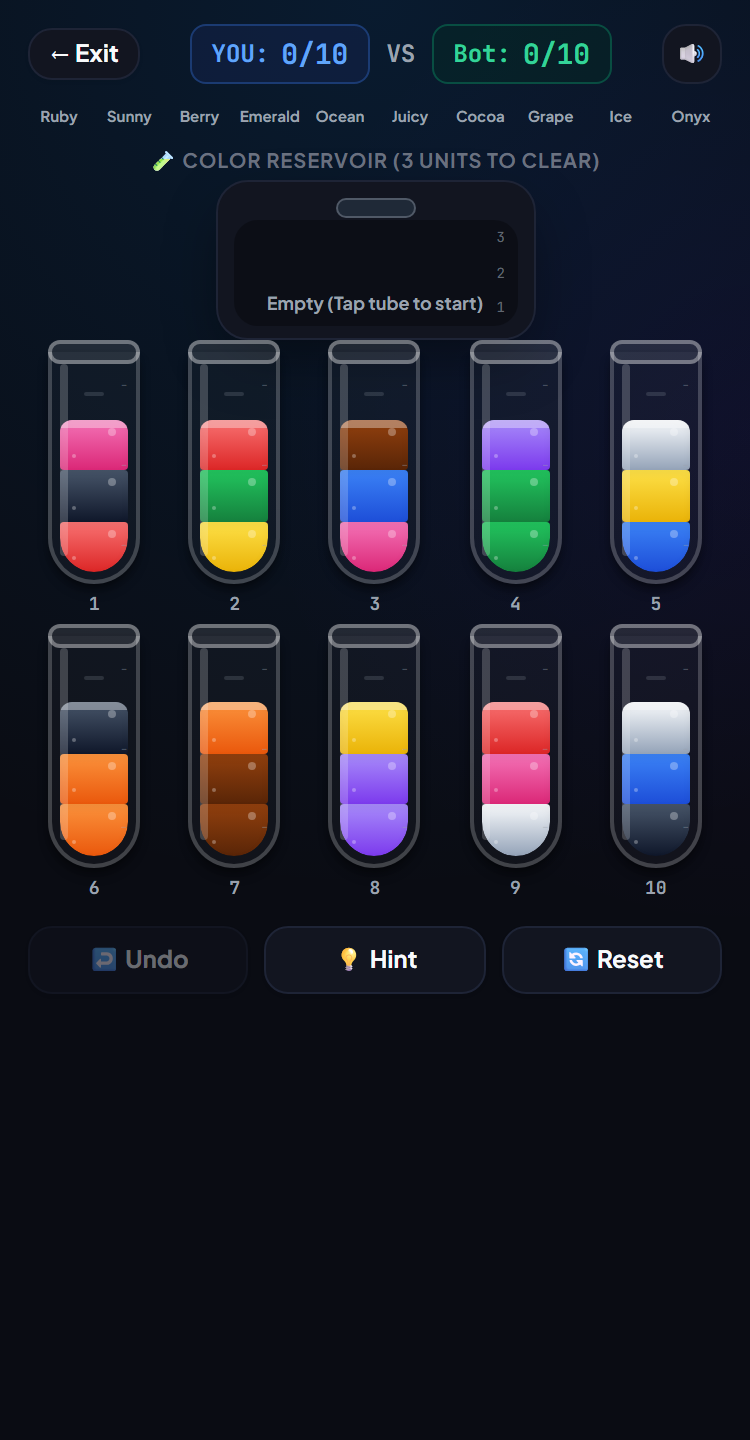
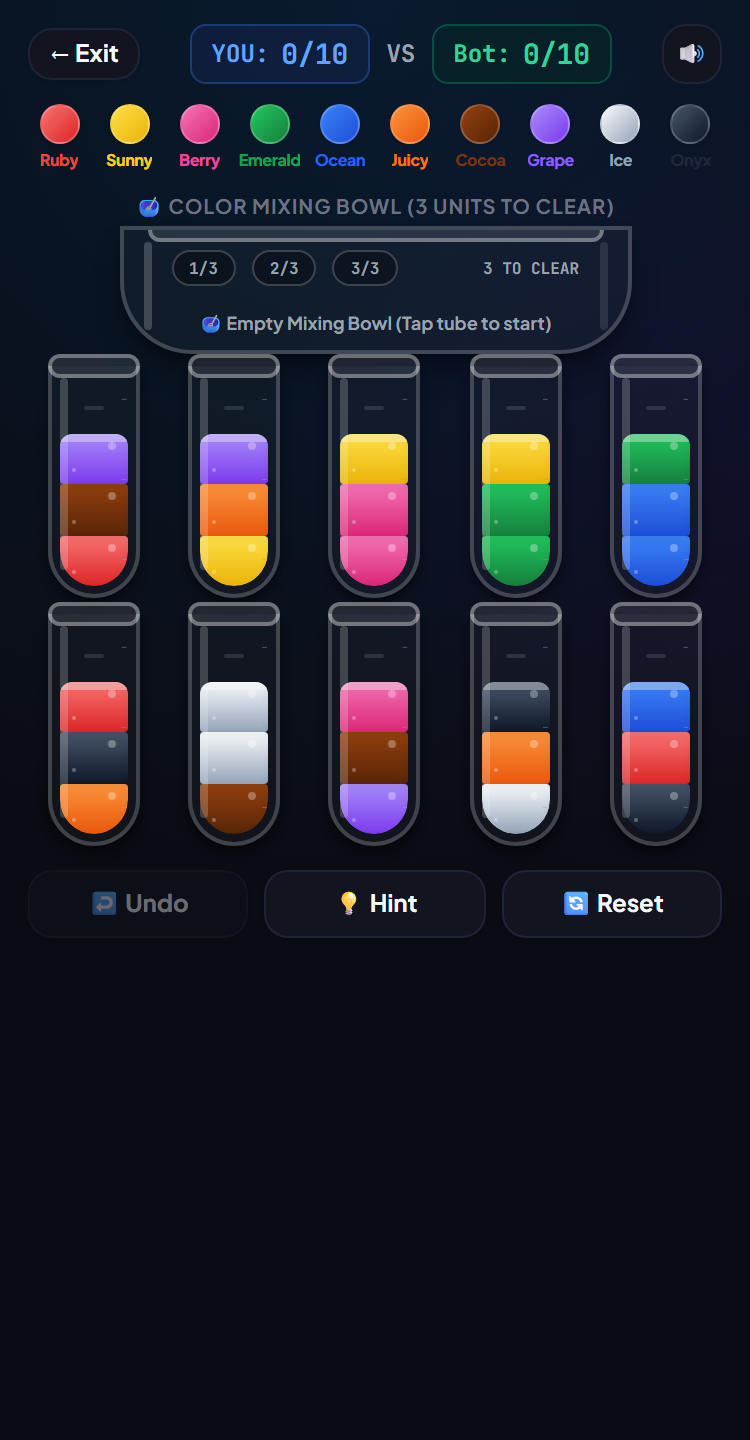
feat(water-sort): horizontal mixing bowl, colorful ribbon dots/text, remove tube numbers, and eliminate popup white lines

Changed region(s): [[0.0307, 0.0625, 0.9507, 0.6875], [0.8893, 0.0625, 0.9507, 0.0938]]

diff --git a/src/games/water-sort/WaterSortGame.ts b/src/games/water-sort/WaterSortGame.ts
@@ -208,10 +208,10 @@ export class WaterSortGame implements GameInstance {
           </div>
         </div>
 
-        <!-- Central Big Reservoir Flask (Single Color Extractor) -->
+        <!-- Central Big Mixing Bowl (Single Color Extractor) -->
         <div class="w-full flex flex-col items-center justify-center my-0.5 sm:my-1">
           <div class="text-[10px] font-bold text-gray-500 uppercase tracking-wider mb-0.5 flex items-center space-x-1">
-            <span>🧪 COLOR RESERVOIR (3 UNITS TO CLEAR)</span>
+            <span>🥣 COLOR MIXING BOWL (3 UNITS TO CLEAR)</span>
           </div>
           <div id="water-reservoir-container" class="cursor-pointer transition-transform duration-200 hover:scale-105 active:scale-95">
             <!-- Rendered dynamically -->
@@ -238,9 +238,9 @@ export class WaterSortGame implements GameInstance {
           </button>
         </footer>
 
-        <!-- Victory / Match End Modal (Hidden by default) -->
-        <div id="water-modal-victory" class="hidden absolute inset-0 bg-black/70 backdrop-blur-md z-50 flex items-center justify-center p-4">
-          <div class="ps-card w-full max-w-sm rounded-3xl p-6 text-center shadow-2xl border border-white/10 animate-fadeIn">
+        <!-- Victory / Match End Modal (Fixed full-screen backdrop, no white border lines) -->
+        <div id="water-modal-victory" class="hidden fixed inset-0 bg-black/80 backdrop-blur-md z-50 flex items-center justify-center p-4">
+          <div id="water-modal-card" class="w-full max-w-sm rounded-3xl p-6 text-center shadow-2xl border-0 animate-fadeIn ${this.currentTheme === 'dark' ? 'bg-gray-900 text-white' : 'bg-white text-gray-900'}">
             <div id="water-victory-icon" class="text-5xl mb-3">🏆</div>
             <h3 id="water-victory-title" class="text-2xl font-black mb-1">VICTORY!</h3>
             <p id="water-victory-subtitle" class="text-xs text-gray-400 mb-5">You sorted all 10 colors first!</p>
@@ -522,6 +522,12 @@ export class WaterSortGame implements GameInstance {
 
     if (!modal || !title || !sub || !icon) return;
 
+    const card = document.getElementById('water-modal-card');
+    if (card) {
+      const isDark = this.currentTheme === 'dark';
+      card.className = `w-full max-w-sm rounded-3xl p-6 text-center shadow-2xl border-0 animate-fadeIn ${isDark ? 'bg-gray-900 text-white' : 'bg-white text-gray-900'}`;
+    }
+
     if (winner === 'player') {
       icon.textContent = '🏆';
       title.textContent = 'YOU WIN!';
@@ -599,63 +605,83 @@ export class WaterSortGame implements GameInstance {
     // 1. Update HUD
     this.updateHUD();
 
-    // 2. Update 10-Color Capsule Ribbon
+    // 2. Update 10-Color Capsule Ribbon (Shows circle and colored text)
     if (this.colorRibbonEl) {
       this.colorRibbonEl.innerHTML = WATER_COLORS.map(color => {
         const isDone = this.engine.state.completedColors.includes(color.id);
         return `
-          <div class="flex-1 flex flex-col items-center group transition-all" title="${color.name}">
-            <div class="w-5.5 h-5.5 xs:w-6 xs:h-6 sm:w-7 sm:h-7 rounded-full flex items-center justify-center shadow-sm transition-all relative ${isDone ? 'ring-2 ring-amber-400 scale-110 shadow-amber-400/40' : 'opacity-85 hover:opacity-100'}"
-                 style="background: linear-gradient(135deg, ${color.gradient[0]}, ${color.gradient[1]});">
-              ${isDone ? '<span class="text-[9px] sm:text-[10px] leading-none drop-shadow">⭐</span>' : ''}
+          <div class="flex-1 flex flex-col items-center justify-center group cursor-default" title="${color.name}">
+            <div class="w-5 h-5 sm:w-6 sm:h-6 rounded-full flex items-center justify-center shadow-sm transition-all duration-200 relative border ${isDone ? 'ring-2 ring-amber-400 scale-110 shadow-amber-400/50 border-amber-300' : 'border-black/15 dark:border-white/20'}"
+                 style="background: linear-gradient(135deg, ${color.gradient[0]}, ${color.gradient[1]}); min-width: 20px; min-height: 20px;">
+              ${isDone ? '<span class="text-[10px] leading-none drop-shadow">⭐</span>' : ''}
             </div>
-            <span class="text-[7.5px] xs:text-[8px] sm:text-[9px] font-bold mt-0.5 leading-tight ${isDone ? 'text-amber-400 font-extrabold' : 'text-gray-400'}">${color.name.split(' ')[0]}</span>
+            <span class="text-[8px] sm:text-[9px] font-black mt-0.5 tracking-tight text-center truncate max-w-full"
+                  style="color: ${color.hex};">
+              ${color.name.split(' ')[0]}
+            </span>
           </div>
         `;
       }).join('');
     }
 
-    // 3. Update Central Big Reservoir Flask
+    // 3. Update Central Horizontal Mixing Bowl
     if (this.reservoirEl) {
       const res = this.engine.state.reservoir;
       const colorDef = this.getColorDef(res.color);
       const percent = (res.count / res.maxCapacity) * 100;
 
       this.reservoirEl.innerHTML = `
-        <div id="water-reservoir-card" class="relative w-40 sm:w-48 h-20 sm:h-24 rounded-2xl p-2 ps-card flex flex-col items-center justify-between border-2 transition-all shadow-md ${res.color ? 'border-blue-400 shadow-blue-500/20' : (isDark ? 'border-gray-800' : 'border-gray-200')}">
+        <div id="water-reservoir-card" 
+             class="relative w-64 xs:w-72 sm:w-80 h-16 sm:h-18 border-2 cursor-pointer transition-all duration-200 flex flex-col items-center justify-between shadow-lg overflow-hidden group ${res.color ? 'border-blue-400 shadow-blue-500/25 ring-2 ring-blue-400/40' : (isDark ? 'bg-white/[0.03] border-white/20 shadow-black/40' : 'bg-black/[0.02] border-gray-400 shadow-gray-200')}"
+             style="border-bottom-left-radius: 36px; border-bottom-right-radius: 36px;">
           
-          <!-- Liquid fill inside reservoir flask -->
-          <div class="absolute inset-x-2 bottom-1.5 rounded-xl overflow-hidden pointer-events-none transition-all duration-300 ${isDark ? 'bg-black/30' : 'bg-gray-100/80'}" style="height: 68%;">
+          <!-- Top Wide Glass Bowl Rim -->
+          <div class="absolute -top-1.5 inset-x-3 h-3 rounded-full border-2 z-30 transition-all ${res.color ? 'border-blue-400 bg-blue-500/30' : (isDark ? 'border-white/35 bg-white/10' : 'border-gray-400 bg-gray-200')}"></div>
+
+          <!-- Glass Reflection Streaks -->
+          <div class="absolute left-2.5 top-1.5 bottom-2.5 w-1 bg-white/20 rounded-full pointer-events-none z-20"></div>
+          <div class="absolute right-2.5 top-1.5 bottom-2.5 w-1 bg-white/10 rounded-full pointer-events-none z-20"></div>
+
+          <!-- Inner Liquid Basin (Gravity settles at rounded bowl bottom) -->
+          <div class="absolute inset-x-1.5 bottom-1 top-1.5 flex flex-col justify-end items-center z-10 overflow-hidden" 
+               style="border-bottom-left-radius: 32px; border-bottom-right-radius: 32px;">
             ${res.color && res.count > 0 ? `
-              <div class="absolute inset-x-0 bottom-0 transition-all duration-300" style="height: ${percent}%; background: linear-gradient(180deg, ${colorDef?.gradient[0] || '#3b82f6'}, ${colorDef?.gradient[1] || '#1d4ed8'});">
-                <!-- Gloss highlight wave -->
-                <div class="w-full h-1.5 bg-white/30 rounded-t-full"></div>
-                <!-- Rising bubble animation -->
-                <div class="absolute top-0.5 left-3 w-1.5 h-1.5 rounded-full bg-white/40 animate-ping"></div>
-                <div class="absolute top-1.5 right-4 w-1.5 h-1.5 rounded-full bg-white/30 animate-pulse"></div>
+              <div class="w-full transition-all duration-300 relative overflow-hidden shadow-inner rounded-b-[30px]" 
+                   style="height: ${percent}%; background: linear-gradient(180deg, ${colorDef?.gradient[0] || '#3b82f6'}, ${colorDef?.gradient[1] || '#1d4ed8'});">
+                <!-- Gloss highlight wave across surface -->
+                <div class="w-full h-1.5 bg-white/35 rounded-t-full"></div>
+                <!-- Rising bubbles -->
+                <div class="absolute top-1 left-8 w-1.5 h-1.5 rounded-full bg-white/40 animate-ping"></div>
+                <div class="absolute top-1.5 right-12 w-2 h-2 rounded-full bg-white/30 animate-pulse"></div>
+                <div class="absolute bottom-1.5 left-24 w-1 h-1 rounded-full bg-white/30"></div>
               </div>
             ` : ''}
-
-            <!-- Graduation tick marks -->
-            <div class="absolute inset-y-0 right-1.5 flex flex-col justify-between py-1 text-[7px] font-mono text-gray-400/60 pointer-events-none select-none">
-              <span>3</span>
-              <span>2</span>
-              <span>1</span>
-            </div>
           </div>
 
-          <!-- Top flask neck representation -->
-          <div class="w-10 h-2.5 rounded-full border border-gray-400/40 ${isDark ? 'bg-gray-800' : 'bg-gray-200'} z-10"></div>
+          <!-- Horizontal 3-Slot Volume Markers & Labels -->
+          <div class="absolute inset-x-6 top-2.5 flex items-center justify-between pointer-events-none z-20">
+            <div class="flex items-center space-x-2">
+              ${[1, 2, 3].map(slot => {
+                const isFilled = res.count >= slot;
+                return `
+                  <div class="px-2 py-0.5 rounded-full text-[8px] font-mono font-black border transition-all ${isFilled ? 'bg-white text-gray-900 border-white shadow-sm scale-105' : (isDark ? 'bg-black/30 border-white/20 text-gray-400' : 'bg-white/70 border-gray-400 text-gray-500')}">
+                    ${slot}/3
+                  </div>
+                `;
+              }).join('')}
+            </div>
+            <span class="text-[8px] font-mono font-bold ${isDark ? 'text-gray-400' : 'text-gray-500'}">3 TO CLEAR</span>
+          </div>
 
-          <!-- Bottom Label -->
-          <div class="z-10 w-full text-center mt-auto">
+          <!-- Center/Bottom Status Badge -->
+          <div class="z-20 w-full text-center mt-auto pb-1 pointer-events-none">
             ${res.color ? `
-              <span class="px-2 py-0.5 rounded-full text-[9px] sm:text-[10px] font-black uppercase text-white shadow-sm inline-block" style="background: ${colorDef?.hex};">
-                ${colorDef?.name}: ${res.count}/${res.maxCapacity}
+              <span class="px-3 py-0.5 rounded-full text-[9px] sm:text-[10px] font-black uppercase text-white shadow-md inline-flex items-center space-x-1 drop-shadow" style="background: ${colorDef?.hex};">
+                <span>${colorDef?.name}: ${res.count}/${res.maxCapacity}</span>
               </span>
             ` : `
               <span class="text-[9px] sm:text-[10px] font-bold text-gray-400">
-                ${this.selectedTubeIndex !== null ? 'Tap to deposit color' : 'Empty (Tap tube to start)'}
+                ${this.selectedTubeIndex !== null ? 'Tap to deposit into bowl' : '🥣 Empty Mixing Bowl (Tap tube to start)'}
               </span>
             `}
           </div>
@@ -722,9 +748,6 @@ export class WaterSortGame implements GameInstance {
                 <span>-</span>
               </div>
             </div>
-
-            <!-- Tube Index Label at Bottom in normal flow (NO OVERLAP) -->
-            <span class="text-[9px] sm:text-[10px] font-mono font-bold text-gray-400 mt-1 select-none">${index + 1}</span>
           </div>
         `;
       };
